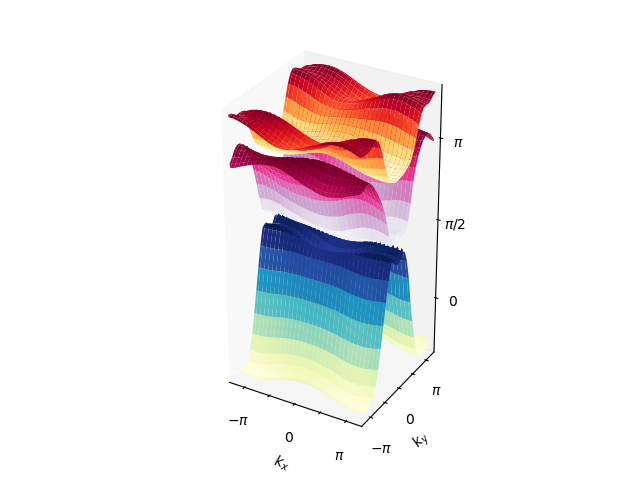
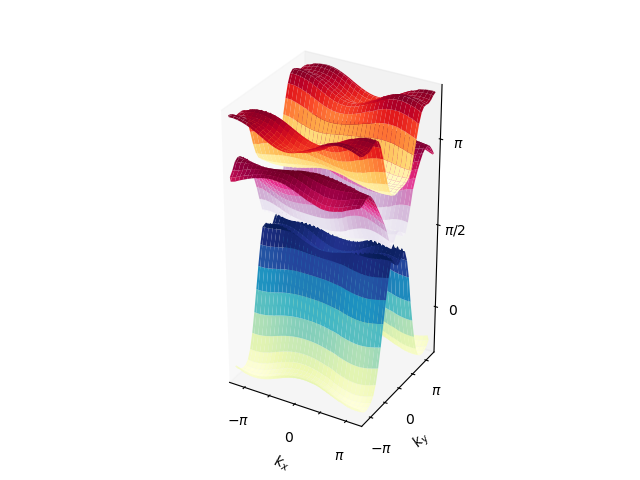
Braiding

diff --git a/square_complete.py b/square_complete.py
@@ -16,7 +16,7 @@ plot_from_save = True
 
 
 # PARAMETERS
-delta_A = 3.5
+delta_A = 3
 delta_C = -3
 omega = 9
 A_x = 1
